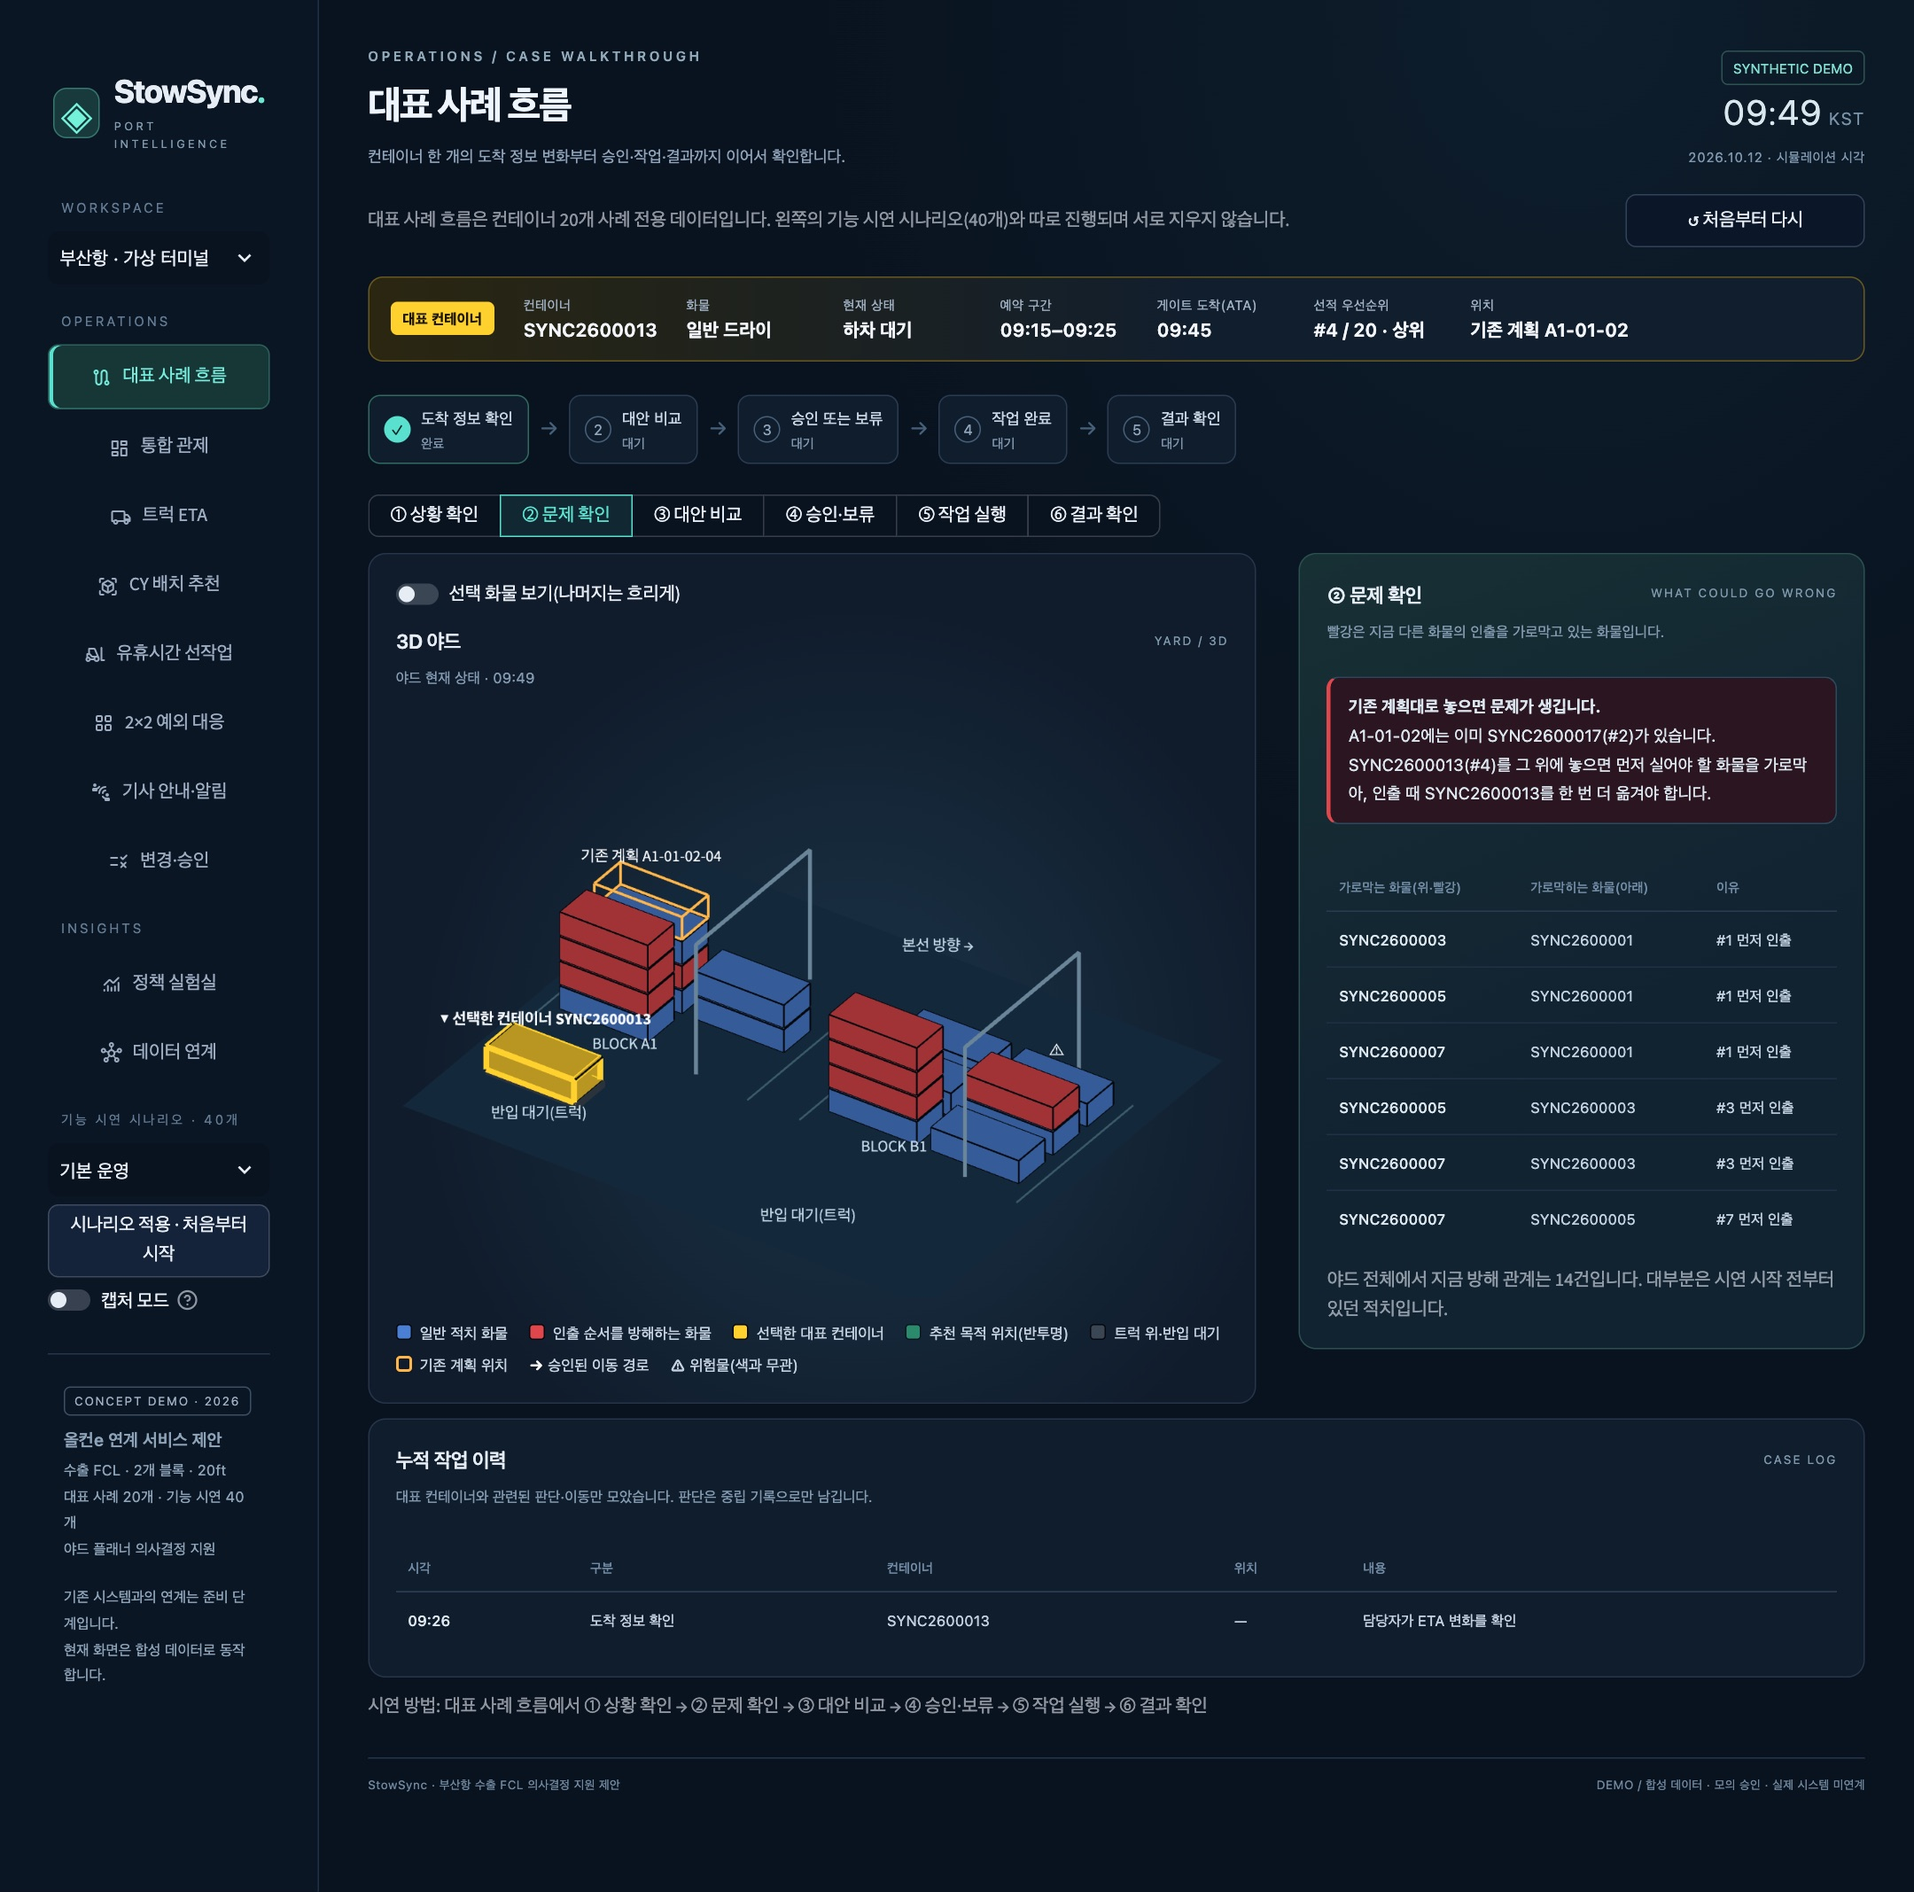
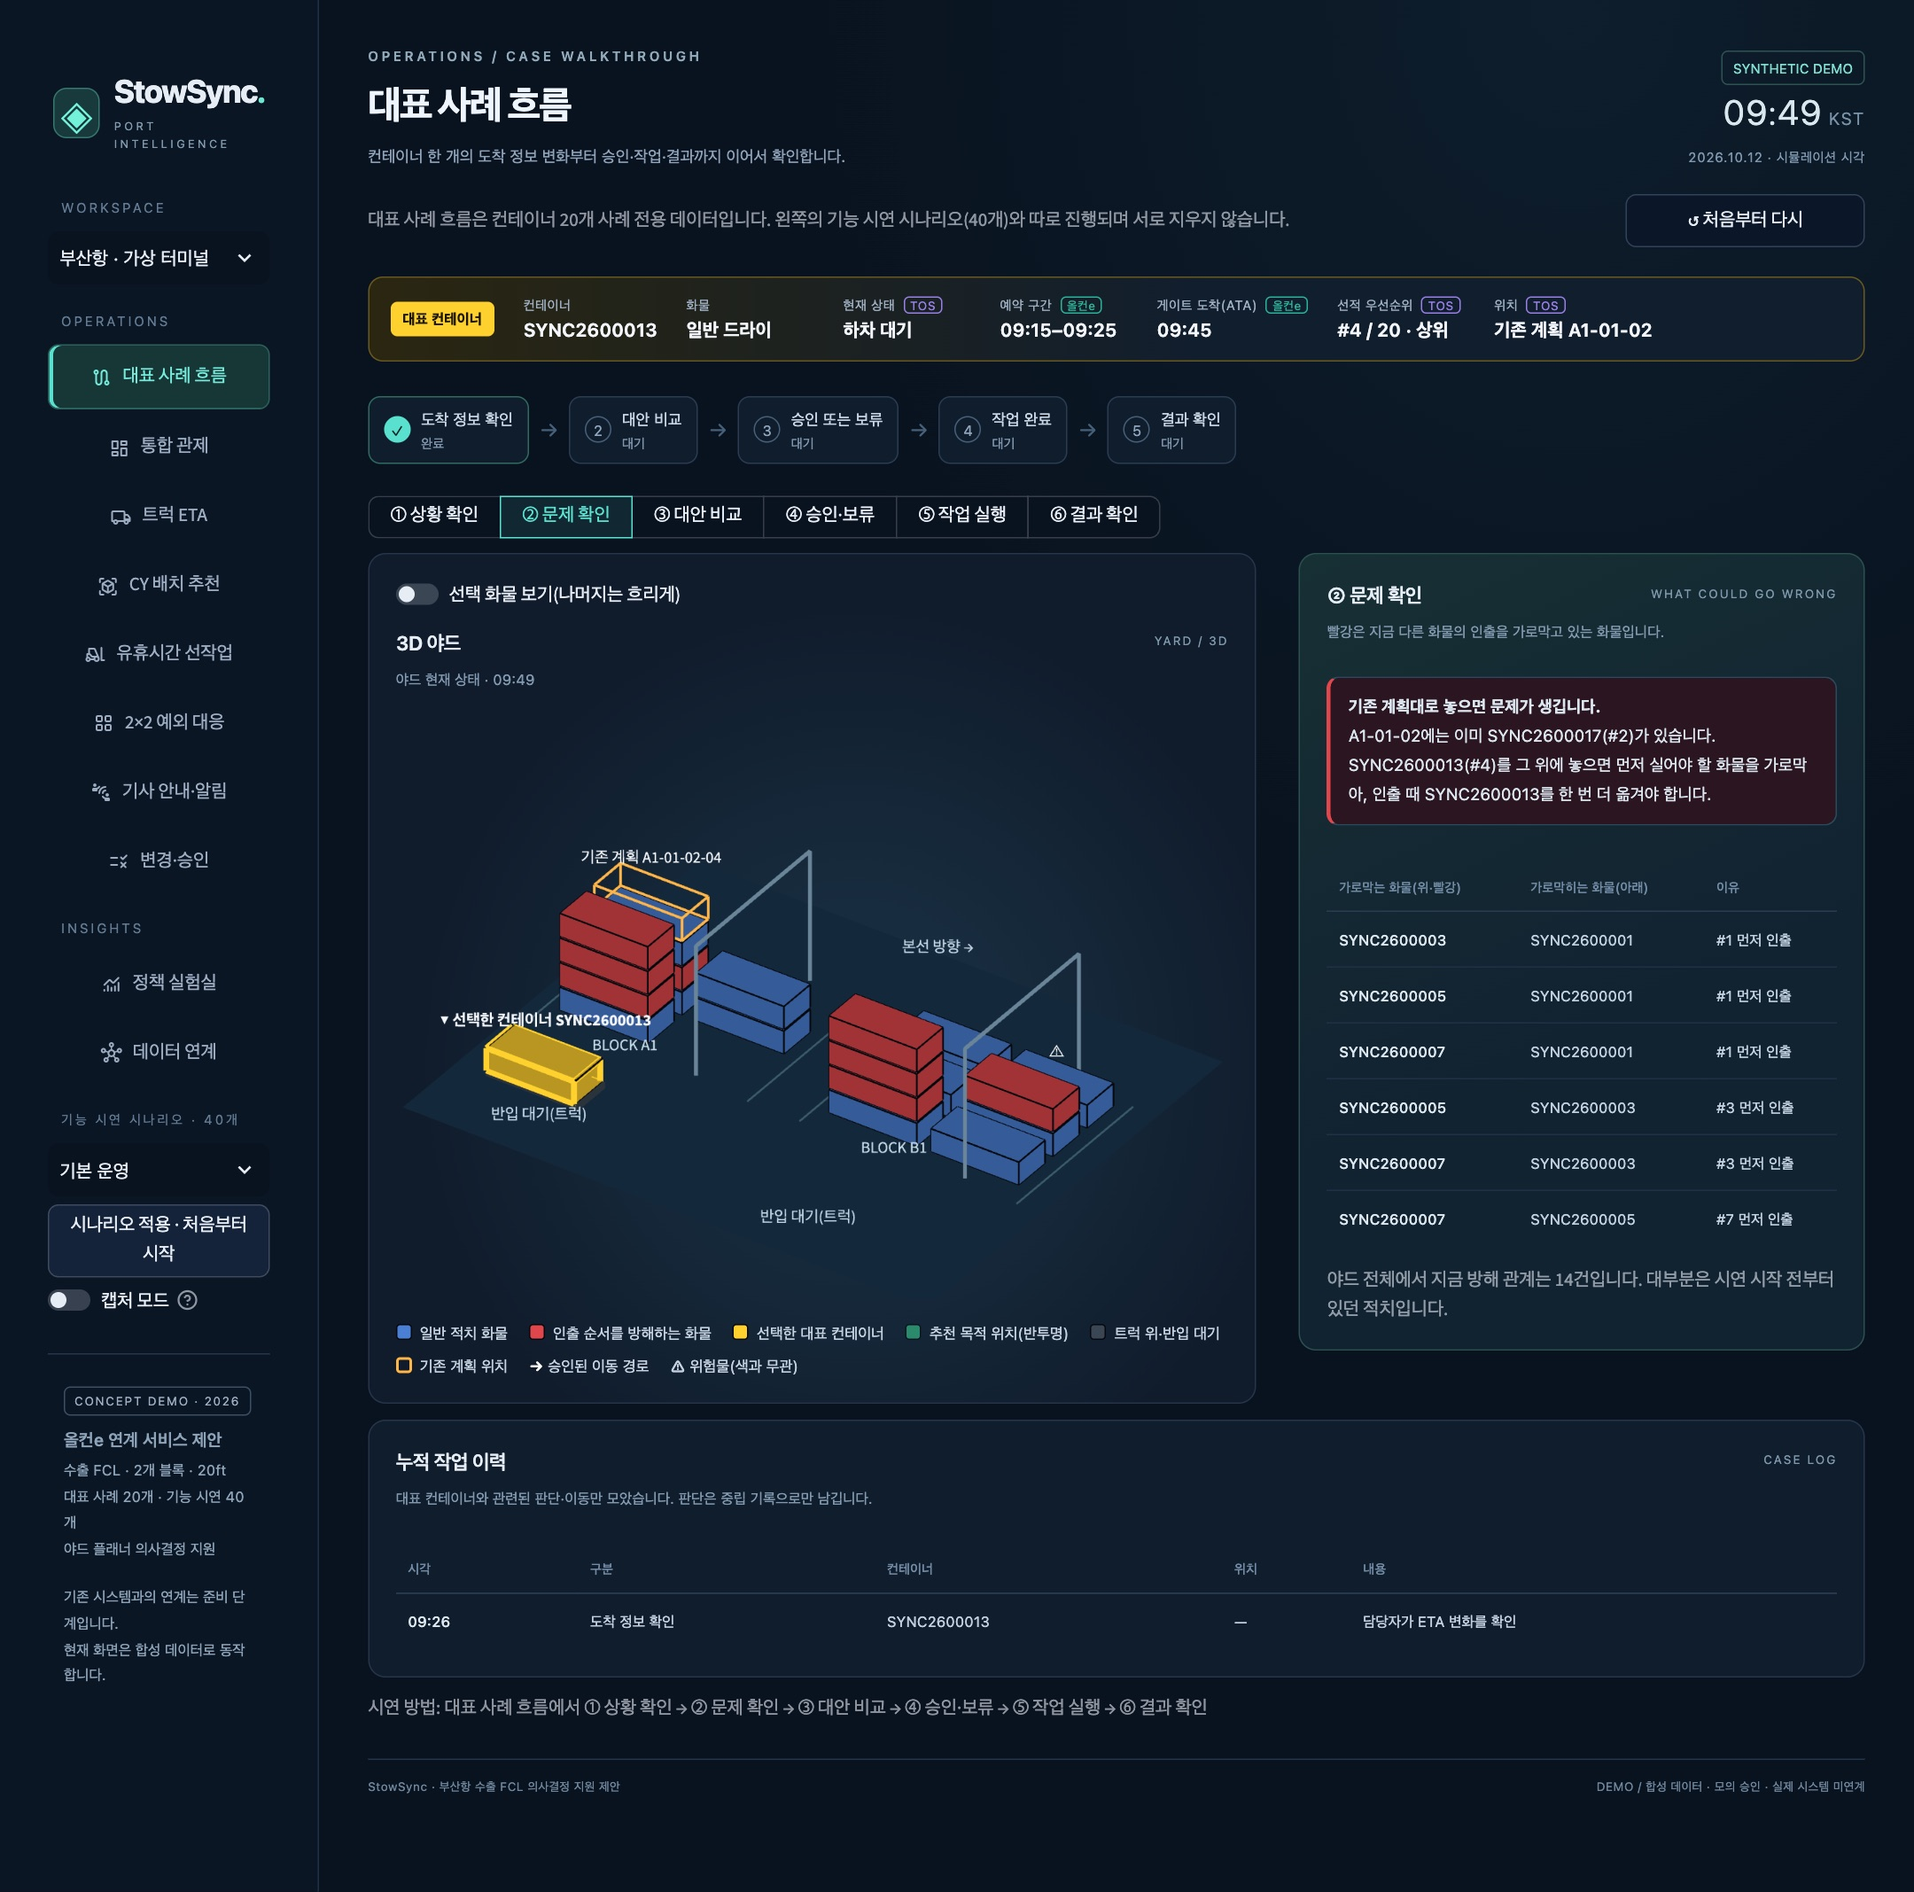
대표 사례에 올컨e·Port-i·TOS 출처 카드 추가
- ① 상황 확인: 반입 예약·운송 진행(올컨e), 선박 일정(Port-i), 작업계획(TOS), 연결 계산값(StowSync)을 출처별 색 카드로 표시
- 요약 바 항목에 출처 태그, ⑤ 작업 실행에 올컨e 기사 안내 미리보기
- README 출처 설명과 대표 사례 캡처 갱신

diff --git a/ui/theme.py b/ui/theme.py
@@ -194,5 +194,14 @@ CSS = CSS.replace('</style>', '''
 .opt-what{font-size:12px;color:#cfe0ee;margin-top:5px;}.opt-why{font-size:11.5px;color:#93a9bd;margin-top:3px;}
 .opt-nums{display:flex;flex-wrap:wrap;gap:4px 14px;font-size:11.5px;color:#9fb3c6;margin-top:6px;}.opt-nums b{color:#f1f6fb;}
 .st-key-focus .app-table td{white-space:normal;line-height:1.55;}
+.src-card{border:1px solid #2a3c52;border-left:4px solid var(--src);border-radius:10px;background:#0f1b2a;padding:9px 12px 8px;margin:8px 0;}
+.src-head{display:flex;align-items:baseline;gap:8px;margin-bottom:5px;}
+.src-head b{color:var(--src);font-size:13px;letter-spacing:.2px;}
+.src-head span{color:#9fb3c6;font-size:11px;}
+.src-head em{margin-left:auto;font-style:normal;font-size:9.5px;color:#7f97ad;border:1px solid #33475d;border-radius:4px;padding:1px 6px;}
+.src-row{display:flex;justify-content:space-between;gap:12px;font-size:12px;padding:3px 0;border-top:1px solid #1f2f42;color:#9fb3c6;}
+.src-row b{color:#eaf2f9;font-weight:600;text-align:right;}
+.src-note{font-size:11px;color:#8ea3b6;margin-top:5px;line-height:1.55;}
+.src-tag{font-style:normal;font-size:9px;color:var(--src);border:1px solid var(--src);border-radius:4px;padding:0 4px;margin-left:3px;opacity:.9;}
 .app-table .good{color:#59e0ce;font-weight:600;}.app-table .bad{color:#ee99a4;font-weight:600;}
 </style>''')

diff --git a/README.md b/README.md
@@ -16,7 +16,7 @@
 
 | 순서 | 누를 곳 | 화면에서 확인할 것 |
 |---|---|---|
-| 1 | **① 상황 확인** → **도착 정보 확인 완료** | 예약 09:15–09:25였던 트럭의 ETA가 09:25에 약 25분 늦게 갱신됨. 그사이 먼저 실을 SYNC2600017(#2)이 먼저 도착할 예정이라 기존 계획 위치(A1-01-02)가 문제가 될 수 있다는 설명 |
+| 1 | **① 상황 확인** → **도착 정보 확인 완료** | 올컨e(반입 예약·운송 진행)·Port-i(선박 일정)·TOS(작업계획) 출처 카드와 StowSync 계산값. 예약 09:15–09:25였던 트럭의 ETA가 09:25에 약 25분 늦게 갱신됨. 그사이 먼저 실을 SYNC2600017(#2)이 먼저 도착할 예정이라 기존 계획 위치(A1-01-02)가 문제가 될 수 있다는 설명 |
 | 2 | **SYNC2600013의 CY 도착까지 진행** | 시각이 09:49로 진행. 다른 화물은 같은 규칙으로 자동 적치되고, 대표 컨테이너는 트럭 위(반입 대기)에 노란색으로 표시 |
 | 3 | **② 문제 확인** | 기존 계획 위치에 SYNC2600017(#2)이 이미 쌓여 있어, 그대로 놓으면 대표 컨테이너가 먼저 실을 화물을 가로막는다는 설명. 주황 테두리 = 기존 계획 위치 |
 | 4 | **③ 대안 비교** → 대안 라디오를 바꿔 보기 → **대안 비교 완료** | 기존 계획 유지(예상 총 추가 이동 9.0) vs 시스템 대안 3개(8.0). 반투명 초록이 추천 목적 위치. 수치의 평가 범위 설명 |
@@ -32,6 +32,7 @@
 ### 화면 공통 규칙
 
 - **3D 색:** 파랑 = 일반 적치, 빨강 = 현재 인출 순서를 방해하는 화물(위험물 표시 아님), 노랑 + 라벨 = 선택한 대표 컨테이너, 반투명 초록 = 추천 목적 위치, 흰 화살표 = 승인된 이동 경로, 주황 테두리 = 기존 계획 위치. 모든 컨테이너에 검정 외곽선. 위험물은 색이 아니라 ⚠ 문자로 표시합니다. 범례는 3D 옆에 항상 표시합니다.
+- **출처 표시:** 대표 사례에서는 정보마다 어느 시스템에서 왔는지 보여 줍니다. 초록 = 올컨e(반입 예약·운송 진행·기사 안내), 파랑 = Port-i(선박 일정), 보라 = TOS(작업계획·야드), 노랑 = StowSync가 연결해 계산한 값. 모두 모의 데이터이며 실제 연계는 협의가 필요합니다.
 - **도착 전 화물**은 야드에 그리지 않고 반입 대기(트럭) 영역에 그립니다. 가려진 화물은 **선택 화물 보기** 토글로 확인합니다.
 - **세 가지 개념을 구분합니다.** 시연 상황 = 사용자가 고른 사건, 추천 평가 = 앞으로 60분 동안 가능한 도착 상황 8가지를 가정해 후보를 비교한 예상 평균(야드 전체 기준), 작업 재생 = 실행 로그를 시간순으로 보여 주는 것. ③의 예상값과 ⑥의 실행 후 관측값은 따로 표시합니다.
 - **결과 비교 원칙:** 두 갈래는 같은 결정 직전 상태에서 나뉘고, 대표 컨테이너 외 화물은 같은 규칙(기준 정책)으로 처리합니다. 실제 도착 사건·화물·장비 조건은 같고, 미래의 실제 도착시각은 추천 입력에 쓰지 않습니다. 총 추가 이동 = 재취급 + 선작업이며 최초 적치·정상 인출은 따로 셉니다.
